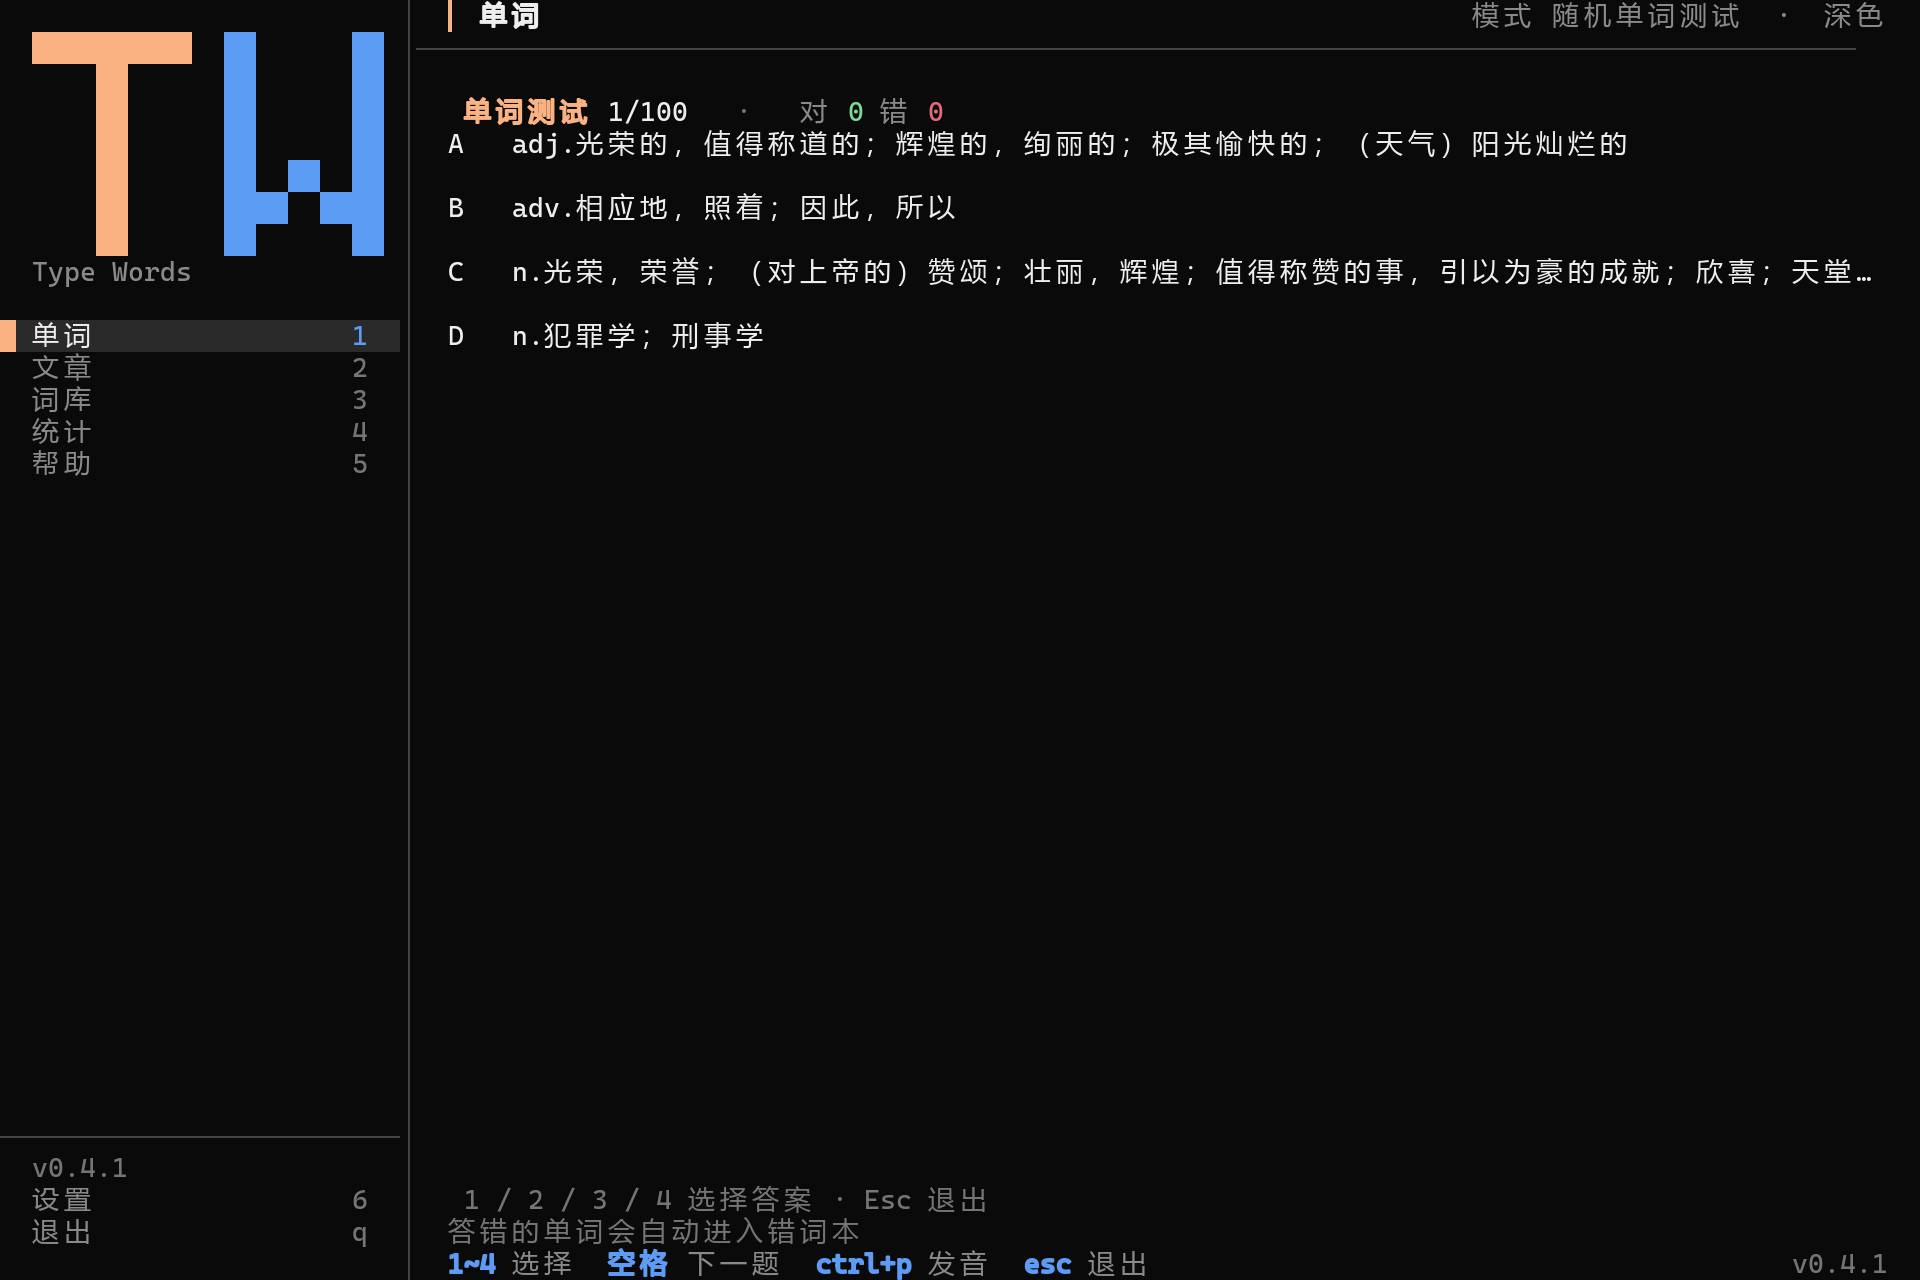
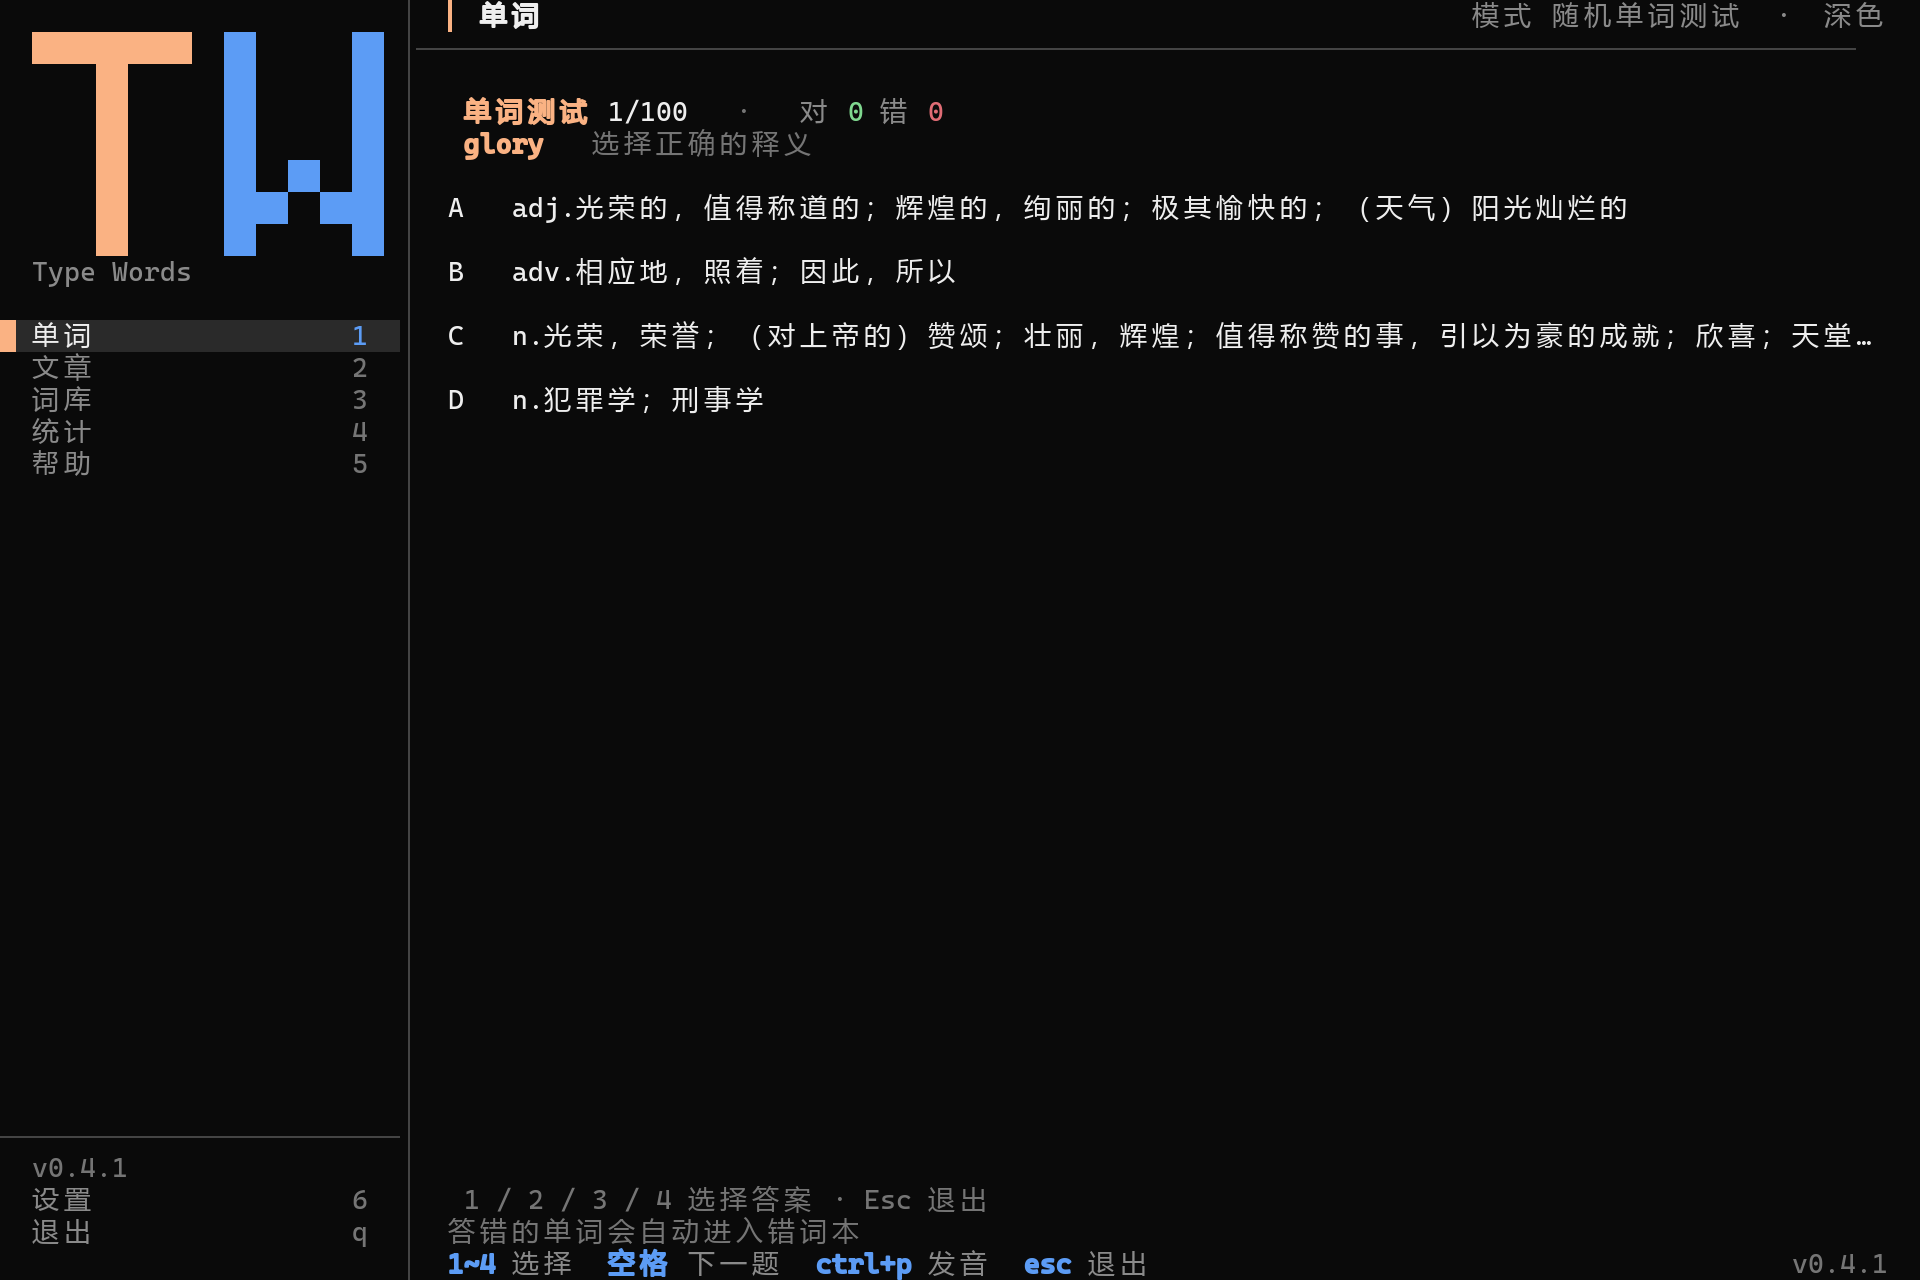
fix(ui): 单词测试页显示题干单词
答题页此前只有题号与四个中文释义，被测试的英文单词一次都没画过（只有答完之后才补在正确选项后面），用户打开页面根本不知道该选哪个。布局新增 2 行题干区，选项上方画出被测试的单词与「选择正确的释义」；60x20 最小终端下四个选项仍完整可见。截图按 docs/development.md 第 6 节重新生成（同一台机器、同一套字体，未手工裁剪）。

diff --git a/src/ui/word_test.rs b/src/ui/word_test.rs
@@ -17,6 +17,8 @@ use crate::ui::widgets::fit_text;
 /// 单词测试页布局。
 pub struct WordTestLayout {
     pub header: Rect,
+    /// 题干：正在被测试的单词（一题四选一，问的是这个词的释义）。
+    pub prompt: Rect,
     pub body: Rect,
     pub footer: Rect,
     /// 每个选项一行，与 `question.candidates` 的顺序一致。
@@ -28,6 +30,8 @@ pub fn layout(area: Rect, options: usize) -> WordTestLayout {
         .direction(Direction::Vertical)
         .constraints([
             Constraint::Length(1),
+            // 题干单词 + 一行留白：没有题干，四个中文释义就成了无源之水。
+            Constraint::Length(2),
             Constraint::Min(8),
             Constraint::Length(2),
         ])
@@ -40,11 +44,12 @@ pub fn layout(area: Rect, options: usize) -> WordTestLayout {
                 .map(|_| Constraint::Length(2))
                 .collect::<Vec<_>>(),
         )
-        .split(chunks[1]);
+        .split(chunks[2]);
     WordTestLayout {
         header: chunks[0],
-        body: chunks[1],
-        footer: chunks[2],
+        prompt: chunks[1],
+        body: chunks[2],
+        footer: chunks[3],
         option_rows: rows.to_vec(),
     }
 }
@@ -61,6 +66,7 @@ pub fn render(app: &App, frame: &mut Frame, area: Rect, theme: &Theme) {
             .unwrap_or(0);
         let layout = layout(content, options);
         render_header(state, frame, layout.header, theme);
+        render_prompt(state, frame, layout.prompt, theme);
         render_options(state, frame, layout.body, &layout.option_rows, theme);
         render_footer(state, frame, layout.footer, theme);
     });
@@ -107,6 +113,35 @@ fn render_header(state: &WordTestState, frame: &mut Frame, rect: Rect, theme: &T
         Span::styled(state.wrong.to_string(), Style::default().fg(theme.bad)),
     ];
     frame.render_widget(Paragraph::new(Line::from(spans)), rect);
+}
+
+/// 题干：把正在被测试的单词画在选项之上。
+///
+/// 四个选项是中文释义，没有题面用户就不知道该选哪一个——早期实现只在答完
+/// 之后才把单词补在正确选项后面，答题前整页看不到这个单词。
+fn render_prompt(state: &WordTestState, frame: &mut Frame, rect: Rect, theme: &Theme) {
+    if rect.width == 0 || rect.height == 0 {
+        return;
+    }
+    let Some(question) = state.question.as_ref() else {
+        return;
+    };
+    let Some(candidate) = question.candidates.get(question.correct_index) else {
+        return;
+    };
+    let line = Line::from(vec![
+        Span::styled(
+            format!(" {}", candidate.word.word),
+            Style::default()
+                .fg(theme.accent)
+                .add_modifier(Modifier::BOLD),
+        ),
+        Span::styled("   选择正确的释义", Style::default().fg(theme.dim)),
+    ]);
+    frame.render_widget(
+        Paragraph::new(line),
+        Rect::new(rect.x, rect.y, rect.width, 1),
+    );
 }
 
 fn render_options(

diff --git a/docs/usage.md b/docs/usage.md
@@ -207,7 +207,7 @@ tw export-dict --out .\backup.json   # 导出当前学习词库；tw export-dict
 
 ### 单词测试
 
-练习模式为「单词测试」或「随机单词测试」时，主页按 `Enter` 进入专用答题页（不加载任何流程）：一题四个中文释义选项，用 `1`~`4` 选择（走键位表的 `ChooseA`~`ChooseD`，可改绑），空格进入下一题，`Ctrl+P` 朗读当前题答案词，`Esc` / `q` 退出；每题最多 100 道。答对 / 答错各有一声提示音，答错的单词自动进入错词本。「单词测试」用今日任务的复习词作题面（没有复习词时退回整本词库）；「随机单词测试」始终用整本词库打乱；候选池始终是整本词库。全部答完给出结算，结算里的「学习进度」显示当前词典的真实进度（`已学 N / M` 与百分比同源），不是「学习进度 0 / 题目数」。
+练习模式为「单词测试」或「随机单词测试」时，主页按 `Enter` 进入专用答题页（不加载任何流程）：题面是正在被测试的单词，下面四个中文释义选项，用 `1`~`4` 选择（走键位表的 `ChooseA`~`ChooseD`，可改绑），答完当场标绿正确答案、标红选错的项，空格进入下一题，`Ctrl+P` 朗读当前题答案词，`Esc` / `q` 退出；每题最多 100 道。答对 / 答错各有一声提示音，答错的单词自动进入错词本。「单词测试」用今日任务的复习词作题面（没有复习词时退回整本词库）；「随机单词测试」始终用整本词库打乱；候选池始终是整本词库。全部答完给出结算，结算里的「学习进度」显示当前词典的真实进度（`已学 N / M` 与百分比同源），不是「学习进度 0 / 题目数」。
 
 ![单词测试](screenshots/wordtest-120x40-dark.png)
 

diff --git a/docs/upstream-parity.md b/docs/upstream-parity.md
@@ -42,7 +42,7 @@
 | 练习 | 7 个内置流程 | `practice-flow-config.ts`（v6） | `src/domain/flow/mod.rs` 的 `builtin_flow` | 已对齐：节点、步骤、7 词小组、错词清空一致，`tests/flow_parity.rs` 覆盖 |
 | 练习 | 练习模式切换入口 | `words.vue` 的模式下拉 | `m` 打开 10 项模式选择弹层（主页「模式」标签也可点开） | 已对齐：写入 `wordPracticeMode`，`--mode` 仍可启动覆盖 |
 | 练习 | 自定义流程（PracticeFlowV2） | `practice-flow-runtime.ts`（存 localStorage） | 流程页：新建副本 / 编辑步骤 / 启用，存 `flows.json` | 部分：可调步骤顺序、乱序、组内巩固；不能增删节点、不能改节点词表来源 |
-| 练习 | 单词测试 | `(words)/words-test/[id].vue`、`core/utils/word-test.ts` | `src/ui/word_test.rs`（`1`~`4` 选择、`Space` 下一题） | 已对齐：4 选 1、答错入错词本、结算 |
+| 练习 | 单词测试 | `(words)/words-test/[id].vue`、`core/utils/word-test.ts` | `src/ui/word_test.rs`（题面显示被测试单词、`1`~`4` 选择、`Space` 下一题） | 已对齐：题面 + 4 选 1、答错入错词本、结算 |
 | 练习 | 随机复习范围 | `ShufflePracticeSettingDialog.vue` | 固定：已学范围 + 每日词数 × 复习比例 | 行为不同：TUI 无「已学 10 词」门槛，进度为 0 时取整本词库 |
 | 练习 | 结算报告 | `components/word/Statistics.vue` | `src/ui/overlays.rs` | 已对齐：含错词 Top10 与本周记录；无分享入口 |
 | 练习 | 学完判定 / 总复习 | `words.vue` 的 `getCurrentStudyWord`、`updateCompletedDictProgress` | `domain/study_task.rs`、`domain/session.rs` | 行为不同：TUI 按词表实际词数判完、最后一个词仍作新词学完并置 `complete`；上游 `isEnd = length - 1` 会提前转复习 |
